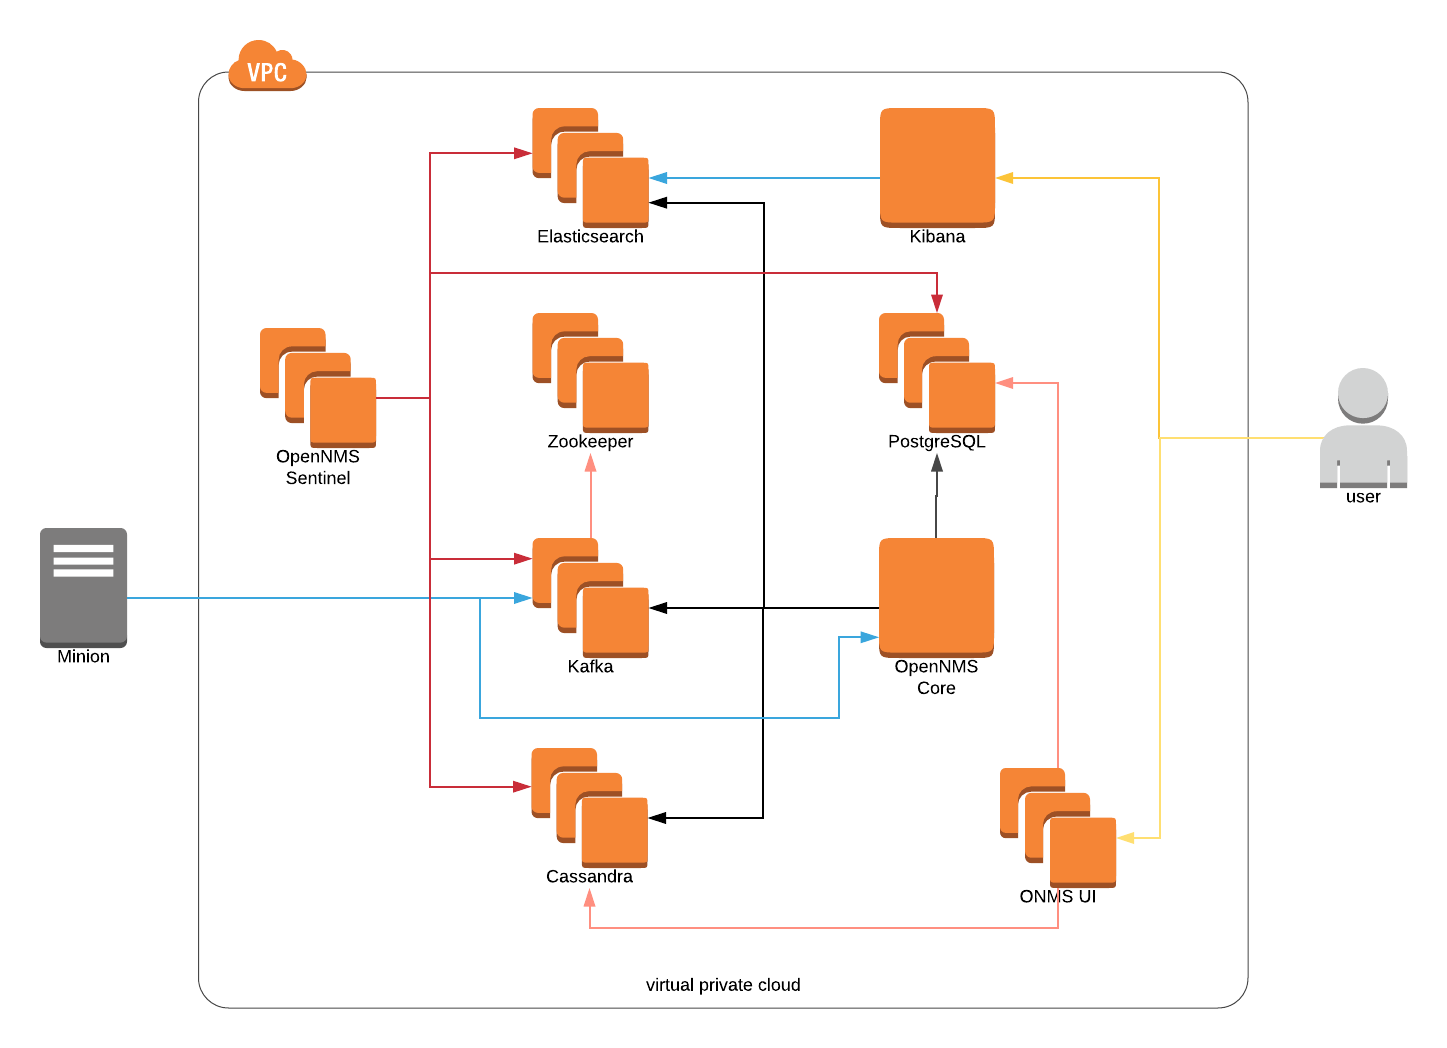
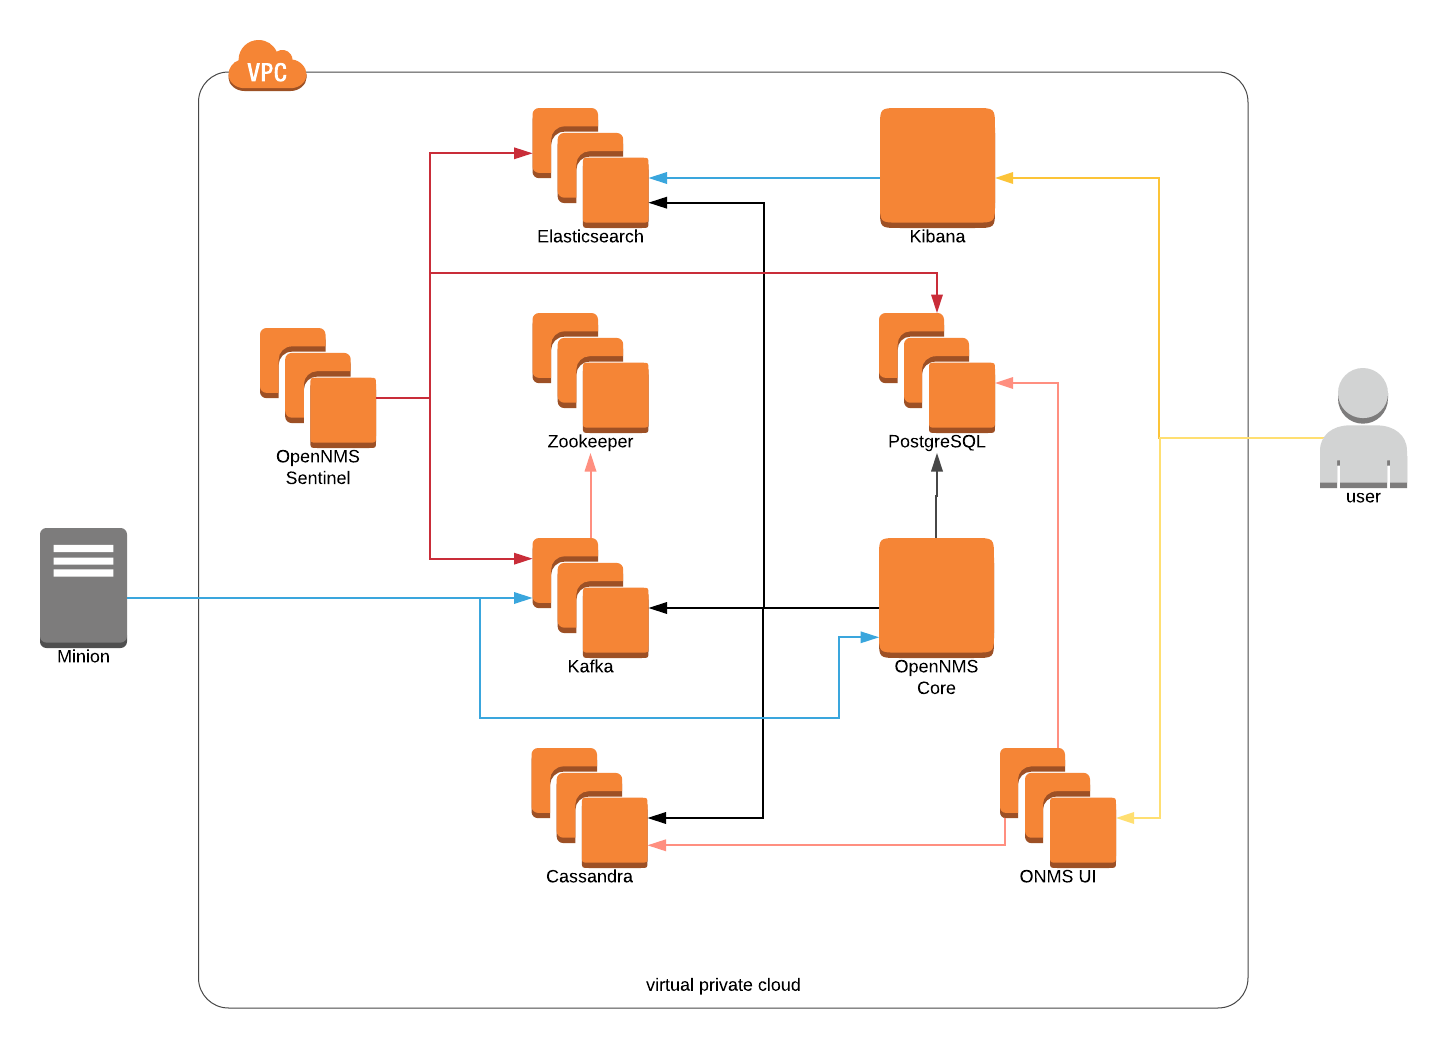
Implementing wait on dependencies.
- Now, you can specify a list of IP/Port list that has to be ready prior
  start using the application. This has been added to kafka,
  elasticsearch, OpenNMS, and Sentinel.
- The network diagram was updated, as Cassandra is not used by Sentinel
  at the moment.

Changed region(s): [[0.6842, 0.7023, 0.8086, 0.8855], [0.4043, 0.855, 0.4354, 0.8855], [0.3421, 0.7328, 0.3732, 0.7634]]

diff --git a/README.md b/README.md
@@ -27,7 +27,7 @@ aws_secret_access_key = XXXXXXXXXXXXXXXXXXXXXXXXXXXXXXXXXX
 * Tweak the common settings on `vars.tf`, in particular:
 
   * `aws_key_name` and `aws_private_key`, to match the chosen region.
-  * `parent_dns_zone` and `dns_zone`, to match an existing Route53 Hosted Zone.
+  * `parent_dns_zone` and `dns_zone`, to match an existing Route 53 Hosted Zone.
 
   All the customizable settings are defined on `vars.tf`. Please do not change the other `.tf` files.
 
@@ -109,6 +109,8 @@ The architecture involves the following components:
 * A elastic load balancer for the OpenNMS UI instances.
 
 * Private DNS through Route 53 for all the instances.
+
+* Public DNS through Route 53 for all the instances, based on an existing Hosted Zone associated with a Public Domain.
 
 For scalability, the clusters for Kafka, ES Data, Cassandra and ONMS UI can be increased without issues. That being said, the clusters for Zookeeper, and ES Master should remain at 3.
 
